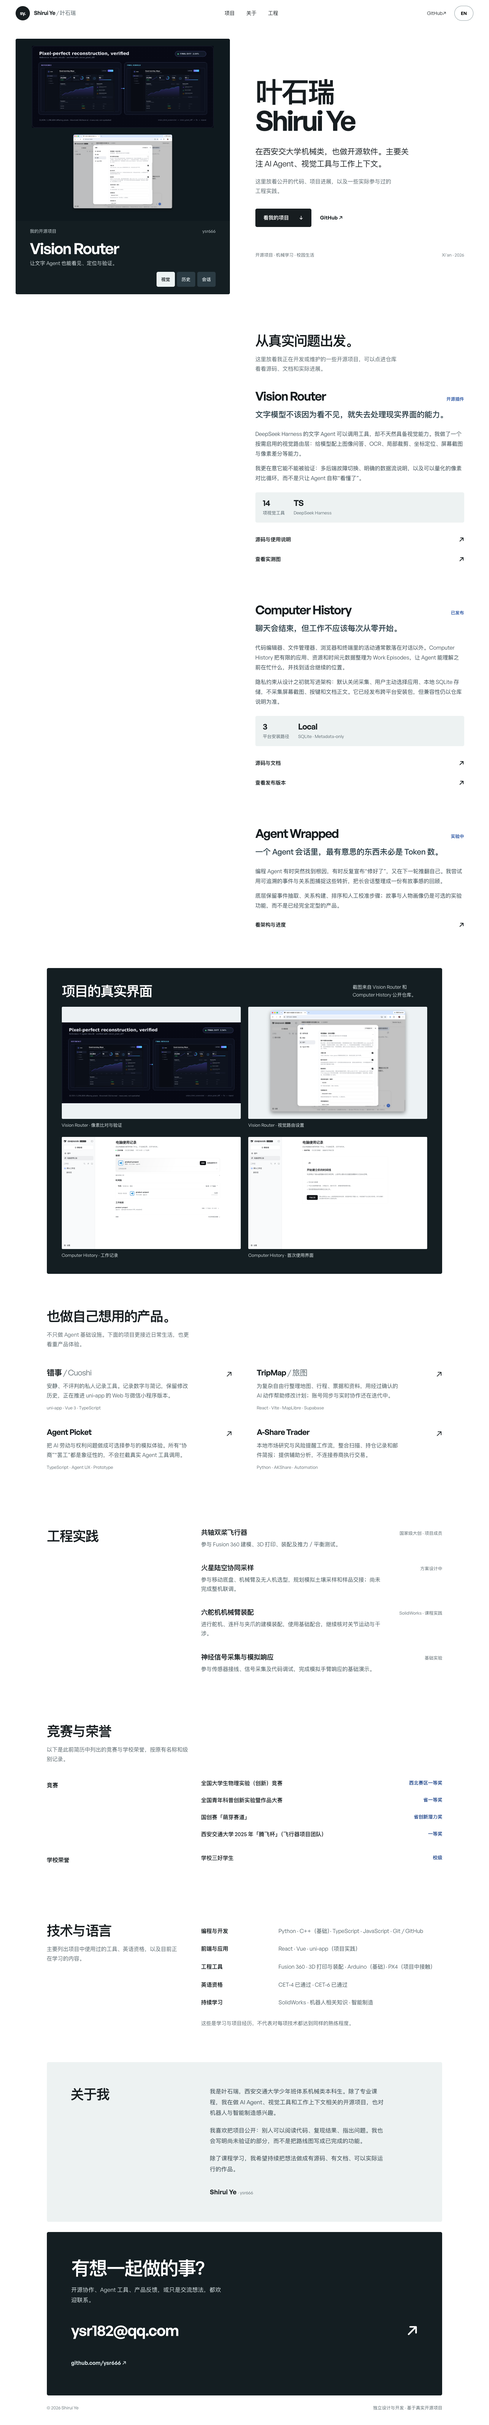
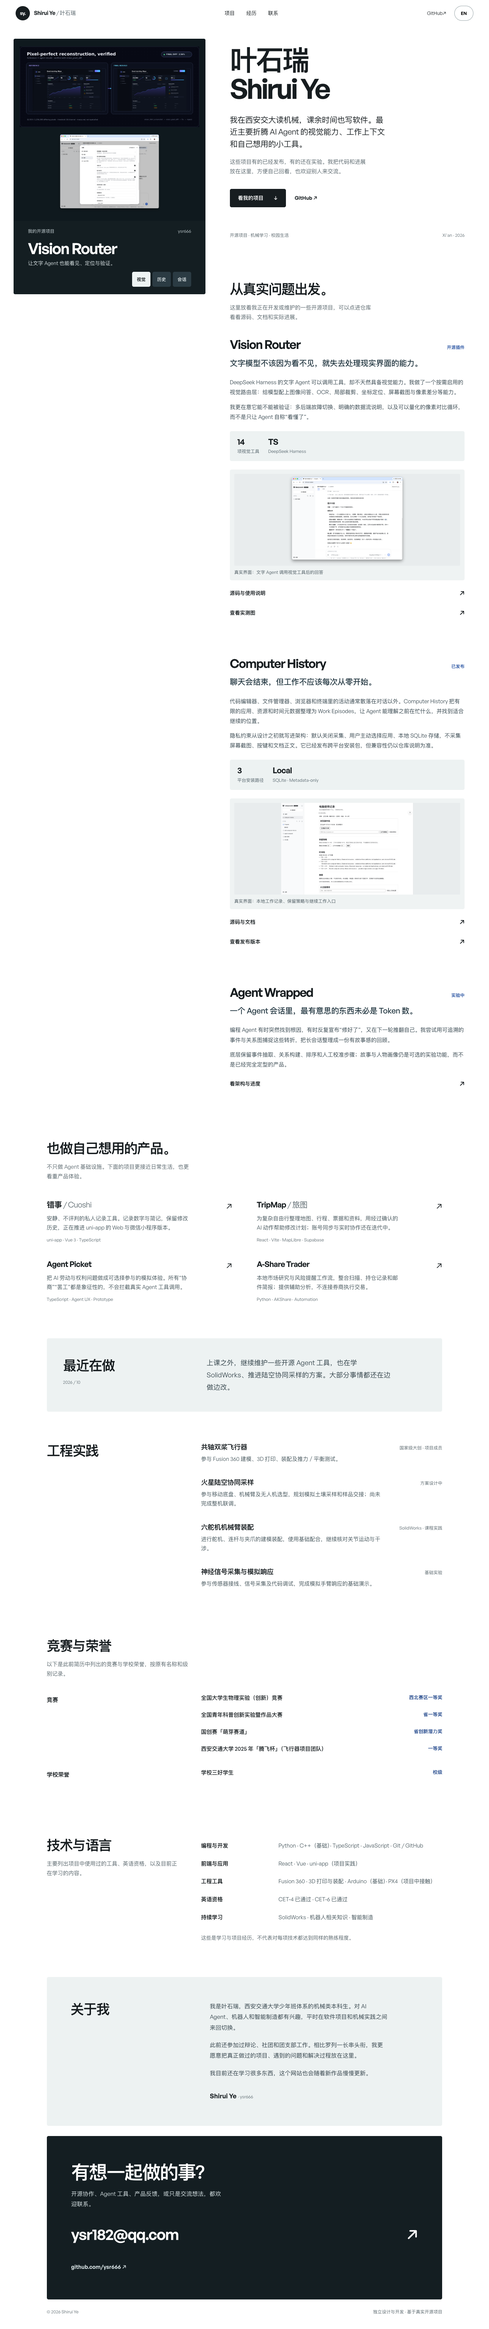
Refine portfolio against authentic developer website references

diff --git a/index.html b/index.html
@@ -14,7 +14,7 @@
 <link href="./favicon.svg" rel="icon" type="image/svg+xml"/>
 <link href="https://api.fontshare.com" rel="preconnect"/>
 <link href="https://api.fontshare.com/v2/css?f[]=general-sans@400,500,600&amp;display=swap" rel="stylesheet"/>
-<link href="./styles.css?v=visual-20261022" rel="stylesheet"/>
+<link href="./styles.css?v=20261022-refined" rel="stylesheet"/>
 <title>Shirui Ye / 叶石瑞 — Building useful software</title>
 </head>
 <body>
@@ -23,9 +23,9 @@
 <div class="topbar-inner">
 <a class="identity" href="#home"><span class="identity-symbol">sy.</span><span class="identity-name">Shirui Ye <span class="identity-cn">/ 叶石瑞</span></span></a>
 <nav aria-label="Main navigation" class="topnav">
-<a data-en="Work" data-zh="项目" href="#work">项目</a>
-<a data-en="About" data-zh="关于" href="#about">关于</a>
-<a data-en="Engineering" data-zh="工程" href="#journey">工程</a>
+<a data-en="Projects" data-zh="项目" href="#work">项目</a>
+<a data-en="Background" data-zh="经历" href="#journey">经历</a>
+<a data-en="Contact" data-zh="联系" href="#contact">联系</a>
 </nav>
 <div class="header-end"><a aria-label="GitHub profile" class="github-top" href="https://github.com/ysr666" rel="noopener noreferrer" target="_blank">GitHub <span aria-hidden="true">↗</span></a><button class="language" id="lang-toggle" title="Switch to English" type="button">EN</button></div>
 </div>
@@ -34,8 +34,8 @@
 <div class="split-layout" id="home">
 <section aria-labelledby="hero-title" class="intro">
 <h1 data-en="Shirui Ye&lt;br&gt;叶石瑞" data-zh="叶石瑞&lt;br&gt;Shirui Ye" id="hero-title">叶石瑞<br/>Shirui Ye</h1>
-<p class="intro-lead" data-en="A mechanical engineering undergraduate at Xi’an Jiaotong University, building open-source tools for AI agents, vision and work context." data-zh="在西安交大学机械类，也做开源软件。主要关注 AI Agent、视觉工具与工作上下文。">在西安交大学机械类，也做开源软件。主要关注 AI Agent、视觉工具与工作上下文。</p>
-<p class="intro-note" data-en="Here you can find my public code, project notes and hands-on engineering experience." data-zh="这里放着公开的代码、项目进展，以及一些实际参与过的工程实践。">这里放着公开的代码、项目进展，以及一些实际参与过的工程实践。</p>
+<p class="intro-lead" data-en="I study mechanical engineering at Xi'an Jiaotong University and build software in my spare time. Lately, I've been working on agent vision, work context, and small tools I'd want to use." data-zh="我在西安交大读机械，课余时间也写软件。最近主要折腾 AI Agent 的视觉能力、工作上下文和自己想用的小工具。">我在西安交大读机械，课余时间也写软件。最近主要折腾 AI Agent 的视觉能力、工作上下文和自己想用的小工具。</p>
+<p class="intro-note" data-en="Some projects have been released; others are still experiments. I keep the code and progress here, both to look back on and to share with others." data-zh="这些项目有的已经发布，有的还在实验。我把代码和进展放在这里，方便自己回看，也欢迎别人来交流。">这些项目有的已经发布，有的还在实验。我把代码和进展放在这里，方便自己回看，也欢迎别人来交流。</p>
 <div class="intro-actions"><a class="action-main" href="#work"><span data-en="Explore my work" data-zh="看我的项目">看我的项目</span><span aria-hidden="true">↓</span></a><a class="action-text" href="https://github.com/ysr666" rel="noopener noreferrer" target="_blank">GitHub ↗</a></div>
 <div class="intro-foot"><span data-en="Open source · Engineering · Campus life" data-zh="开源项目 · 机械学习 · 校园生活">开源项目 · 机械学习 · 校园生活</span><span>Xi'an · 2026</span></div>
 </section><aside aria-label="Featured project preview" class="visual-stage">
@@ -53,7 +53,6 @@
 </div>
 </div>
 </div>
-
 </aside><section aria-labelledby="work-title" class="body-section work" id="work">
 <div class="section-intro"><h2 data-en="Built around real problems." data-zh="从真实问题出发。" id="work-title">从真实问题出发。</h2><p data-en="These are open-source projects I build or maintain. Their repositories show the code, docs and current progress." data-zh="这里放着我正在开发或维护的一些开源项目，可以点进仓库看看源码、文档和实际进展。">这里放着我正在开发或维护的一些开源项目，可以点进仓库看看源码、文档和实际进展。</p></div>
 <article class="case" data-stage="vision" id="vision">
@@ -63,7 +62,7 @@
 <p data-en="DeepSeek Harness agents can call tools, but text-only models still cannot see. Vision Router adds on-demand image Q&amp;A, OCR, crops, coordinate grounding, screenshots and pixel comparison." data-zh="DeepSeek Harness 的文字 Agent 可以调用工具，却不天然具备视觉能力。我做了一个按需启用的视觉路由层：给模型配上图像问答、OCR、局部裁剪、坐标定位、屏幕截图与像素差分等能力。">DeepSeek Harness 的文字 Agent 可以调用工具，却不天然具备视觉能力。我做了一个按需启用的视觉路由层：给模型配上图像问答、OCR、局部裁剪、坐标定位、屏幕截图与像素差分等能力。</p>
 <p data-en="The emphasis is verification: provider fallback, explicit data-flow boundaries and measurable pixel-diff loops instead of an agent merely claiming it understood an image." data-zh="我更在意它能不能被验证：多后端故障切换、明确的数据流说明，以及可以量化的像素对比循环，而不是只让 Agent 自称“看懂了”。">我更在意它能不能被验证：多后端故障切换、明确的数据流说明，以及可以量化的像素对比循环，而不是只让 Agent 自称“看懂了”。</p>
 <div class="case-facts"><div><b>14</b><span data-en="Vision tools" data-zh="项视觉工具">项视觉工具</span></div><div><b>TS</b><span>DeepSeek Harness</span></div></div>
-<div class="case-links"><a href="https://github.com/ysr666/dsh-vision-router" rel="noopener noreferrer" target="_blank"><span data-en="Source &amp; documentation" data-zh="源码与使用说明">源码与使用说明</span><span aria-hidden="true">↗</span></a><a href="https://github.com/ysr666/dsh-vision-router/blob/main/assets/pixel-loop.png" rel="noopener noreferrer" target="_blank"><span data-en="See pixel-diff evidence" data-zh="查看实测图">查看实测图</span><span aria-hidden="true">↗</span></a></div>
+<figure class="case-proof"><a aria-label="真实界面：文字 Agent 调用视觉工具后的回答（打开原始图）" href="https://github.com/ysr666/dsh-vision-router/blob/main/assets/dsh-conversation-image-qa-result.png" rel="noopener noreferrer" target="_blank"><img alt="Vision Router text-first agent image-answer output in a DeepSeek Harness screenshot" height="1073" loading="lazy" src="./assets/vision-qa-evidence.png" width="1400"/></a><figcaption data-en="Actual interface: agent answer after calling a vision tool" data-zh="真实界面：文字 Agent 调用视觉工具后的回答">真实界面：文字 Agent 调用视觉工具后的回答</figcaption></figure><div class="case-links"><a href="https://github.com/ysr666/dsh-vision-router" rel="noopener noreferrer" target="_blank"><span data-en="Source &amp; documentation" data-zh="源码与使用说明">源码与使用说明</span><span aria-hidden="true">↗</span></a><a href="https://github.com/ysr666/dsh-vision-router/blob/main/assets/pixel-loop.png" rel="noopener noreferrer" target="_blank"><span data-en="See pixel-diff evidence" data-zh="查看实测图">查看实测图</span><span aria-hidden="true">↗</span></a></div>
 </article>
 <article class="case" data-stage="history" id="history">
 <div class="case-heading"><h3>Computer History</h3><span class="case-state" data-en="Published" data-zh="已发布">已发布</span></div>
@@ -72,7 +71,7 @@
 <p data-en="Work is scattered across editors, files, browsers and terminals. Computer History converts bounded app, resource and timing metadata into Work Episodes and offers useful resume context." data-zh="代码编辑器、文件管理器、浏览器和终端里的活动通常散落在对话以外。Computer History 把有限的应用、资源和时间元数据整理为 Work Episodes，让 Agent 能理解之前在忙什么，并找到适合继续的位置。">代码编辑器、文件管理器、浏览器和终端里的活动通常散落在对话以外。Computer History 把有限的应用、资源和时间元数据整理为 Work Episodes，让 Agent 能理解之前在忙什么，并找到适合继续的位置。</p>
 <p data-en="Privacy is architectural: capture is off by default, apps are opt-in, history lives in local SQLite, and the design excludes screenshots, keystrokes and document bodies. Cross-platform packages have been published with documented compatibility limits." data-zh="隐私约束从设计之初就写进架构：默认关闭采集、用户主动选择应用、本地 SQLite 存储，不采集屏幕截图、按键和文档正文。它已经发布跨平台安装包，但兼容性仍以仓库说明为准。">隐私约束从设计之初就写进架构：默认关闭采集、用户主动选择应用、本地 SQLite 存储，不采集屏幕截图、按键和文档正文。它已经发布跨平台安装包，但兼容性仍以仓库说明为准。</p>
 <div class="case-facts"><div><b>3</b><span data-en="Desktop platforms" data-zh="平台安装路径">平台安装路径</span></div><div><b>Local</b><span>SQLite · Metadata-only</span></div></div>
-<div class="case-links"><a href="https://github.com/ysr666/dsh-computer-history" rel="noopener noreferrer" target="_blank"><span data-en="Source &amp; documentation" data-zh="源码与文档">源码与文档</span><span aria-hidden="true">↗</span></a><a href="https://github.com/ysr666/dsh-computer-history/releases" rel="noopener noreferrer" target="_blank"><span data-en="See releases" data-zh="查看发布版本">查看发布版本</span><span aria-hidden="true">↗</span></a></div>
+<figure class="case-proof"><a aria-label="真实界面：本地工作记录、保留策略与继续工作入口（打开原始图）" href="https://github.com/ysr666/dsh-computer-history/blob/main/docs/assets/panel-timeline-duration.png" rel="noopener noreferrer" target="_blank"><img alt="Computer History actual interface with retention settings and timeline" height="1113" loading="lazy" src="./assets/history-timeline-evidence.png" width="1600"/></a><figcaption data-en="Actual interface: local history, retention settings, resume workflow" data-zh="真实界面：本地工作记录、保留策略与继续工作入口">真实界面：本地工作记录、保留策略与继续工作入口</figcaption></figure><div class="case-links"><a href="https://github.com/ysr666/dsh-computer-history" rel="noopener noreferrer" target="_blank"><span data-en="Source &amp; documentation" data-zh="源码与文档">源码与文档</span><span aria-hidden="true">↗</span></a><a href="https://github.com/ysr666/dsh-computer-history/releases" rel="noopener noreferrer" target="_blank"><span data-en="See releases" data-zh="查看发布版本">查看发布版本</span><span aria-hidden="true">↗</span></a></div>
 </article>
 <article class="case" data-stage="wrapped" id="wrapped">
 <div class="case-heading"><h3>Agent Wrapped</h3><span class="case-state" data-en="Experimental" data-zh="实验中">实验中</span></div>
@@ -82,17 +81,15 @@
 <p data-en="The implementation includes event extraction, graph relationships, ranking and human review. Story and persona generation are explicitly experimental rather than presented as finished product features." data-zh="底层保留事件抽取、关系构建、排序和人工校准步骤；故事与人物画像仍是可选的实验功能，而不是已经完全定型的产品。">底层保留事件抽取、关系构建、排序和人工校准步骤；故事与人物画像仍是可选的实验功能，而不是已经完全定型的产品。</p>
 <div class="case-links"><a href="https://github.com/ysr666/agent-wrapped" rel="noopener noreferrer" target="_blank"><span data-en="Architecture &amp; progress" data-zh="看架构与进度">看架构与进度</span><span aria-hidden="true">↗</span></a></div>
 </article>
-</section></div><div class="after-work"><section aria-labelledby="evidence-heading" class="work-evidence" id="evidence"><div class="evidence-heading"><h2 data-en="Inside the projects" data-zh="项目的真实界面" id="evidence-heading">项目的真实界面</h2><p data-en="Interface screenshots from the public Vision Router and Computer History repositories." data-zh="截图来自 Vision Router 和 Computer History 公开仓库。">截图来自 Vision Router 和 Computer History 公开仓库。</p></div><div class="evidence-gallery">
-<figure><img alt="Vision Router pixel comparison test, actual repository screenshot" height="720" loading="lazy" src="./assets/vision-demo.png" width="1600"/><figcaption data-en="Vision Router · pixel comparison and verification" data-zh="Vision Router · 像素比对与验证">Vision Router · 像素比对与验证</figcaption></figure>
-<figure><img alt="Vision Router configuration interface from the project repository" height="1073" loading="lazy" src="./assets/vision-settings.png" width="1400"/><figcaption data-en="Vision Router · vision routing settings" data-zh="Vision Router · 视觉路由设置">Vision Router · 视觉路由设置</figcaption></figure>
-<figure><img alt="Computer History timeline screen captured from the real application" height="940" loading="lazy" src="./assets/history-timeline.png" width="1500"/><figcaption data-en="Computer History · activity timeline" data-zh="Computer History · 工作记录">Computer History · 工作记录</figcaption></figure>
-<figure><img alt="Computer History first-run interface showing consent and privacy settings" height="940" loading="lazy" src="./assets/history-first-run.png" width="1500"/><figcaption data-en="Computer History · first-run setup" data-zh="Computer History · 首次使用界面">Computer History · 首次使用界面</figcaption></figure>
-</div></section><section aria-labelledby="more-title" class="body-section side-projects" id="more">
+</section></div><div class="after-work"><section aria-labelledby="more-title" class="body-section side-projects" id="more">
 <div class="section-intro"><h2 data-en="Things I wanted to exist." data-zh="也做自己想用的产品。" id="more-title">也做自己想用的产品。</h2><p data-en="Beyond agent infrastructure: products shaped by everyday use and practical needs." data-zh="不只做 Agent 基础设施。下面的项目更接近日常生活，也更看重产品体验。">不只做 Agent 基础设施。下面的项目更接近日常生活，也更看重产品体验。</p></div>
 <div class="mini-project"><div><h3>错事 <span>/ Cuoshi</span></h3><p data-en="A quiet, nonjudgmental personal tracker with editable history and small notes, built for web and WeChat using uni-app." data-zh="安静、不评判的私人记录工具。记录数字与简记，保留修改历史，正在推进 uni-app 的 Web 与微信小程序版本。">安静、不评判的私人记录工具。记录数字与简记，保留修改历史，正在推进 uni-app 的 Web 与微信小程序版本。</p><div class="mini-meta">uni-app · Vue 3 · TypeScript</div></div><a href="https://github.com/ysr666/cuoshi" rel="noopener noreferrer" target="_blank"><span class="visually-hidden" data-en="View Cuoshi repository" data-zh="查看错事源代码">查看错事源代码</span><span aria-hidden="true">↗</span></a></div>
 <div class="mini-project"><div><h3>TripMap <span>/ 旅图</span></h3><p data-en="A travel workspace for routes, tickets, plans and documents, with reviewable AI actions. Cloud sync and collaboration continue to evolve." data-zh="为复杂自由行整理地图、行程、票据和资料，用经过确认的 AI 动作帮助修改计划；账号同步与实时协作还在迭代中。">为复杂自由行整理地图、行程、票据和资料，用经过确认的 AI 动作帮助修改计划；账号同步与实时协作还在迭代中。</p><div class="mini-meta">React · Vite · MapLibre · Supabase</div></div><a href="https://github.com/ysr666/travelmap-planner" rel="noopener noreferrer" target="_blank"><span class="visually-hidden" data-en="View TripMap repository" data-zh="查看 TripMap 源代码">查看 TripMap 源代码</span><span aria-hidden="true">↗</span></a></div>
 <div class="mini-project"><div><h3>Agent Picket</h3><p data-en="An opt-in simulation exploring AI work and symbolic labor rights. Bargaining and strikes never block real agent tools." data-zh="把 AI 劳动与权利问题做成可选择参与的模拟体验。所有“协商”“罢工”都是象征性的，不会拦截真实 Agent 工具调用。">把 AI 劳动与权利问题做成可选择参与的模拟体验。所有“协商”“罢工”都是象征性的，不会拦截真实 Agent 工具调用。</p><div class="mini-meta">TypeScript · Agent UX · Prototype</div></div><a href="https://github.com/ysr666/agent-picket" rel="noopener noreferrer" target="_blank"><span class="visually-hidden" data-en="View Agent Picket repository" data-zh="查看 Agent Picket 源代码">查看 Agent Picket 源代码</span><span aria-hidden="true">↗</span></a></div>
 <div class="mini-project"><div><h3>A-Share Trader</h3><p data-en="A local market research workflow for scanning, portfolio records and email alerts. Advisory only; it does not execute trades." data-zh="本地市场研究与风险提醒工作流，整合扫描、持仓记录和邮件简报；提供辅助分析，不连接券商执行交易。">本地市场研究与风险提醒工作流，整合扫描、持仓记录和邮件简报；提供辅助分析，不连接券商执行交易。</p><div class="mini-meta">Python · AKShare · Automation</div></div><a href="https://github.com/ysr666/a-share-trader" rel="noopener noreferrer" target="_blank"><span class="visually-hidden" data-en="View A-Share Trader repository" data-zh="查看 A-Share Trader 源代码">查看 A-Share Trader 源代码</span><span aria-hidden="true">↗</span></a></div>
+</section><section aria-labelledby="now-title" class="now-section" id="now">
+<div class="now-title"><h2 data-en="Now" data-zh="最近在做" id="now-title">最近在做</h2><span>2026 / 10</span></div>
+<p data-en="Outside coursework, I'm maintaining a few open-source agent tools, learning SolidWorks, and exploring an air–ground sampling concept. Most of it is still work in progress." data-zh="上课之外，继续维护一些开源 Agent 工具，也在学 SolidWorks、推进陆空协同采样的方案。大部分事情都还在边做边改。">上课之外，继续维护一些开源 Agent 工具，也在学 SolidWorks、推进陆空协同采样的方案。大部分事情都还在边做边改。</p>
 </section><section aria-labelledby="journey-title" class="body-section journey-section" id="journey">
 <h2 data-en="Engineering" data-zh="工程实践" id="journey-title">工程实践</h2>
 <div class="engineering-list">
@@ -133,9 +130,9 @@
 </div><div class="skill-lines"><div class="skill-line"><h3 data-en="Software development" data-zh="编程与开发">编程与开发</h3><p data-en="Python · C++ (basics) · TypeScript · JavaScript · Git / GitHub" data-zh="Python · C++（基础）· TypeScript · JavaScript · Git / GitHub">Python · C++（基础）· TypeScript · JavaScript · Git / GitHub</p></div><div class="skill-line"><h3 data-en="Web &amp; apps" data-zh="前端与应用">前端与应用</h3><p data-en="React · Vue · uni-app (project experience)" data-zh="React · Vue · uni-app（项目实践）">React · Vue · uni-app（项目实践）</p></div><div class="skill-line"><h3 data-en="Engineering tools" data-zh="工程工具">工程工具</h3><p data-en="Fusion 360 · 3D printing &amp; assembly · Arduino (basics) · PX4 (project exposure)" data-zh="Fusion 360 · 3D 打印与装配 · Arduino（基础）· PX4（项目中接触）">Fusion 360 · 3D 打印与装配 · Arduino（基础）· PX4（项目中接触）</p></div><div class="skill-line"><h3 data-en="English qualifications" data-zh="英语资格">英语资格</h3><p data-en="CET-4 passed · CET-6 passed" data-zh="CET-4 已通过 · CET-6 已通过">CET-4 已通过 · CET-6 已通过</p></div><div class="skill-line"><h3 data-en="Currently learning" data-zh="持续学习">持续学习</h3><p data-en="SolidWorks · Robotics fundamentals · Intelligent manufacturing" data-zh="SolidWorks · 机器人相关知识 · 智能制造">SolidWorks · 机器人相关知识 · 智能制造</p></div></div>
 <p class="skill-outro" data-en="These reflect coursework and project experience, not equal proficiency in every listed technology." data-zh="这些是学习与项目经历，不代表对每项技术都达到同样的熟练程度。">这些是学习与项目经历，不代表对每项技术都达到同样的熟练程度。</p></section><section aria-labelledby="about-title" class="body-section about-section" id="about">
 <h2 data-en="A little about me" data-zh="关于我" id="about-title">关于我</h2>
-<p data-en="I'm Shirui Ye, a mechanical engineering undergraduate in Xi'an Jiaotong University's Youth Gifted Program. Alongside coursework, I work on open-source tools for AI agents, vision and work context, and I'm interested in robotics and intelligent manufacturing." data-zh="我是叶石瑞，西安交通大学少年班体系机械类本科生。除了专业课程，我在做 AI Agent、视觉工具和工作上下文相关的开源项目，也对机器人与智能制造感兴趣。">我是叶石瑞，西安交通大学少年班体系机械类本科生。除了专业课程，我在做 AI Agent、视觉工具和工作上下文相关的开源项目，也对机器人与智能制造感兴趣。</p>
-<p data-en="I like working in the open. Source code lets people inspect, reproduce and challenge the result. I also try to distinguish what's verified from what's still on the roadmap." data-zh="我喜欢把项目公开：别人可以阅读代码、复现结果、指出问题。我也会写明尚未验证的部分，而不是把路线图写成已完成的功能。">我喜欢把项目公开：别人可以阅读代码、复现结果、指出问题。我也会写明尚未验证的部分，而不是把路线图写成已完成的功能。</p>
-<p data-en="Alongside my studies, I want to keep turning ideas into projects with inspectable code, useful documentation and working implementations." data-zh="除了课程学习，我希望持续把想法做成有源码、有文档、可以实际运行的作品。">除了课程学习，我希望持续把想法做成有源码、有文档、可以实际运行的作品。</p>
+<p data-en="I'm Shirui Ye, a mechanical engineering undergraduate in Xi'an Jiaotong University's Youth Gifted Program. I'm interested in AI agents, robotics, and manufacturing, and I split my time between software and hands-on engineering." data-zh="我是叶石瑞，西安交通大学少年班体系的机械类本科生。对 AI Agent、机器人和智能制造都有兴趣，平时在软件项目和机械实践之间来回切换。">我是叶石瑞，西安交通大学少年班体系的机械类本科生。对 AI Agent、机器人和智能制造都有兴趣，平时在软件项目和机械实践之间来回切换。</p>
+<p data-en="I also have a background in debating, clubs, and Youth League branch activities. Rather than list a long series of titles, I'd prefer to share the projects I've worked on and the problems I ran into." data-zh="此前还参加过辩论、社团和团支部工作。相比罗列一长串头衔，我更愿意把真正做过的项目、遇到的问题和解决过程放在这里。">此前还参加过辩论、社团和团支部工作。相比罗列一长串头衔，我更愿意把真正做过的项目、遇到的问题和解决过程放在这里。</p>
+<p data-en="I'm still learning a lot, and I'll keep updating this site as new work takes shape." data-zh="我目前还在学习很多东西，这个网站也会随着新作品慢慢更新。">我目前还在学习很多东西，这个网站也会随着新作品慢慢更新。</p>
 <p class="about-signature">Shirui Ye <span>· ysr666</span></p>
 </section><section aria-labelledby="contact-title" class="body-section contact-section" id="contact">
 <h2 data-en="Something worth building together?" data-zh="有想一起做的事？" id="contact-title">有想一起做的事？</h2>
@@ -144,6 +141,6 @@
 <p><a class="text-link" href="https://github.com/ysr666" rel="noopener noreferrer" target="_blank">github.com/ysr666 ↗</a></p>
 </section><footer class="footer"><span>© 2026 Shirui Ye</span><span data-en="Independently built · Grounded in real projects" data-zh="独立设计与开发 · 基于真实开源项目">独立设计与开发 · 基于真实开源项目</span></footer></div>
 </main>
-<script defer="" src="./app.js?v=visual-20261022"></script>
+<script defer="" src="./app.js?v=20261022-refined"></script>
 </body>
 </html>

diff --git a/styles.css b/styles.css
@@ -287,3 +287,28 @@ button,a{touch-action:manipulation;-webkit-tap-highlight-color:transparent}
  [data-reveal]{opacity:.72;transform:translateY(12px);transition:opacity .45s ease,transform .45s ease}
  [data-reveal].is-visible,[data-reveal]:focus-within{opacity:1;transform:none}
 }
+
+/* Personal-site editorial refinement after comparing real maker portfolios. */
+@media(min-width:851px){
+ .split-layout{grid-template-columns:minmax(0,42%) minmax(0,58%)}
+ .intro{min-height:clamp(585px,74svh,790px)}
+ .visual-stage{padding-left:clamp(24px,2.8vw,46px)}
+ .split-layout>.intro,.split-layout>.work{padding-left:clamp(40px,5vw,82px);padding-right:clamp(30px,5vw,78px)}
+}
+.now-section{display:grid;grid-template-columns:minmax(200px,33%) minmax(0,1fr);align-items:start;gap:clamp(30px,5vw,70px);margin:9px 0 18px;padding:clamp(34px,4vw,54px) clamp(29px,4vw,48px);background:var(--soft);border-radius:var(--radius);scroll-margin-top:calc(var(--top) + 15px)}
+.now-title h2{font-size:var(--heading);font-weight:600;letter-spacing:-.05em;line-height:1.25;margin:0 0 12px}
+.now-title span{font-size:var(--small);color:var(--muted)}
+.now-section p{font-size:clamp(17px,1.5vw,20px);line-height:1.8;max-width:47ch;color:#33434a;margin:0}
+@media(max-width:620px){
+ .now-section{display:block;margin:12px 0 16px;padding:29px 26px}
+ .now-title{margin-bottom:20px}
+ .now-title h2{margin-bottom:4px}
+ .now-section p{font-size:17px;line-height:1.78}
+}
+
+/* A verifiable detail belongs beside the relevant case study, not in a duplicate gallery. */
+.case-proof{margin:25px 0 10px;padding:13px;background:#eff3f3;border-radius:var(--radius)}
+.case-proof a{display:block;border-radius:2px}
+.case-proof img{width:100%;max-height:270px;height:auto;object-fit:contain;object-position:center;background:#e8eced;border-radius:2px}
+.case-proof figcaption{font-size:var(--small);line-height:1.6;color:#4c5a61;margin:9px 0 0}
+@media(max-width:530px){.case-proof{margin:22px 0 12px;padding:9px}.case-proof img{max-height:230px}}

diff --git a/DESIGN_SYSTEM.md b/DESIGN_SYSTEM.md
@@ -10,7 +10,7 @@ Reading hierarchy: personal identity → featured verifiable work → actual pro
 
 ## Visual concept
 
-Real software screens are the visual material, not generic AI illustrations. The large screenshot field stays beside the three featured case studies only, then releases; the remaining material becomes a full-width editorial archive. On mobile, the name and introduction precede the screenshot. Agent Wrapped uses typographic artwork identified as artwork, not a false application screenshot.
+Real software screens are the visual material, not generic AI illustrations. A project screenshot field stays beside three featured case studies only, then releases to a full-width editorial archive. A separate duplicate gallery was removed. On mobile, the name and introduction precede the screenshot. Agent Wrapped uses typographic artwork identified as artwork, not a false application screenshot.
 
 ## Design tokens
 
@@ -28,7 +28,7 @@ Real software screens are the visual material, not generic AI illustrations. The
 | Space | 4, 8, 12, 16, 24, 32, 48, 64px rhythm |
 | Radius | 5px for image fields and CTA, functional pill for language |
 | Motion | 230ms screenshot crossfade and small 450ms one-time section reveals |
-| Grid | 47/53 desktop split, stacked at 850px, two-row phone nav <=530px |
+| Grid | 42/58 desktop split, stacked at 850px, two-row phone nav <=530px |
 
 The measured font sizes between roles result from fluid scaling, Latin/CJK metrics and localized components; the design uses five main semantic tiers.
 
@@ -36,10 +36,24 @@ The measured font sizes between roles result from fluid scaling, Latin/CJK metri
 
 Semantic main, nav and sections; one H1 for the person's real name, skip link, descriptive images and project links. Explicit focus rings. All visible mobile controls are at least 44×44 CSS px. No browser zoom restrictions. Full keyboard use, named project preview buttons, correct pressed state, language switching in place and persistence where storage is available. Browser fragment jumps are immediate rather than animated through long pages. Motion respects the reduced-motion preference and never blocks reading.
 
-The screenshot gallery uses four raster images from actual public Vision Router and Computer History repositories. Experimental or pending work is labeled, forked repositories never claimed as original, and private projects/contact details remain excluded.
+Featured screenshots come from public Vision Router and Computer History repositories. A separate duplicate gallery was intentionally removed. Experimental or pending work is labeled, forked repositories never claimed as original, and private projects/contact details remain excluded.
 
 ## Deliberate Taste Skill exceptions
 
 No video: there is no verified footage in the evidence selected for this page; inventing a demo would undermine credibility. The language switch retains a functional 1px border for affordance. Computed responsive type yields more pixel sizes than the five semantic roles. No gradients, at-rest shadows, decorative card grids or invented statistics.
 
 See QA_REPORT.md for tested coverage and remaining limits.
+
+
+## Reference review (2026-10-22)
+
+We compared real public portfolios rather than choosing aesthetics from one inspiration image: Anthony Fu (personal voice and open-source projects), Paco Coursey (compact editorial structure and Now), Brittany Chiang (recruiting evidence and contact), Emil Kowalski (projects as proof), and Rauno Freiberg (careful typographic craft).
+
+The adaptation keeps the existing source-backed work but uses more human copy, Projects / Background / Contact navigation, removes duplicate screenshots, and adds a truthful Now note about work still in progress. This alters information hierarchy, not the user's achievements.
+
+Reference URLs and decisions are in DESIGN_REFERENCES.md.
+
+
+## Final visual evidence decision
+
+Rather than keep the former large four-photo gallery, two distinct, source-backed screenshots now sit inside the Vision Router and Computer History case studies. They illustrate a real vision-tool response and the local history/retention UI. Both screenshots link directly to their original public GitHub repository files; all assets are local to this static site. The project stage and mobile previews remain the primary visual experience.

diff --git a/QA_REPORT.md b/QA_REPORT.md
@@ -40,3 +40,20 @@ Taste Skill moved from an initial **7 FAIL / 5 WARN** to **0 FAIL / 2 WARN** aft
 ## Limits
 
 Axe with no detected violations is NOT full WCAG 2.2 AA certification. Native VoiceOver/NVDA, Safari/iOS behavior, forced colors, and all zoom combinations require separate manual testing. Taste Skill passing also does not certify subjective visual taste. A human should review the site and each résumé claim before using it as a formal application.
+
+
+## Personal-site comparison refinement (2026-10-22)
+
+- Compared original sites of Anthony Fu, Paco Coursey, Brittany Chiang, Emil Kowalski and Rauno Freiberg. Adapted information curation and personal voice without copying page code or branding.
+- Removed the duplicate four-image gallery; original repository/source links were kept.
+- Added a short, evidence-conscious Now note; edited About and intro and changed navigation to Projects / Background / Contact.
+- Desktop split is now 42/58 and the intro is shorter to surface project content sooner.
+- Browser check at 320, 375, 390, 768, 1024, 1440 and 1920 CSS px in both languages: no document horizontal overflow, broken image, invalid internal fragment or JS page error; 375, 768 and 1440 screenshots reviewed.
+- Repeated Axe at 375, 768 and 1440: zero confirmed WCAG violations, not a certification. Taste Skill source lint: zero FAIL, two existing WARN.
+
+
+## Source-backed evidence check (2026-10-22)
+
+Taste Skill flagged too few meaningful pictures after the redundant full gallery was removed. We selected two different, actual repository screenshots instead of restoring duplicates: a Vision Router tool-response example and Computer History timeline/retention controls. The images were inspected, downloaded directly from the author's public repositories, and attached to their relevant case studies with descriptive alt text, bilingual captions and external links to the original images.
+
+Final Taste Skill inspector: **0 FAIL / 2 WARN** (font-size count and no video). The images are actual evidence, not styled mockups. The source lint remains **0 FAIL / 2 WARN**. No video is added without authentic footage.

diff --git a/README.md b/README.md
@@ -12,7 +12,7 @@ Plain HTML, CSS and JavaScript. No dependencies or build process. Run a local we
 
 Featured source-backed work: DSH Vision Router, Computer History and Agent Wrapped. Four other non-fork public repositories are listed briefly. Engineering practice is compact and distinguishes participation from planned integration. The qualifications section includes CET-4 and CET-6 passed. No invented achievements, fake interfaces, unrelated fork attribution, private phone number or confidential projects.
 
-The four screenshot images in assets originate in public project repositories. Agent Wrapped artwork is typographic, not presented as a real app screen.
+Screenshots in assets originate in public project repositories, including two annotated case-study images with links back to their original files. Agent Wrapped artwork is typographic, not presented as a real app screen.
 
 ## Documentation
 
@@ -20,5 +20,6 @@ The four screenshot images in assets originate in public project repositories. A
 - QA_REPORT.md: inspect/lint, Axe automated checks, browser sizes, screenshots and limits.
 - PROFILE_CONTENT.md: content provenance / accuracy boundaries.
 - qa/screenshots/: verified preview captures.
+- DESIGN_REFERENCES.md: real personal sites studied and what was adapted.
 
 Style direction: Taste Skill v2 Split Stage adapted to actual developer work. Mobile leads with the owner's name; the full-width archive follows the featured work.

diff --git a/DESIGN_REFERENCES.md b/DESIGN_REFERENCES.md
@@ -1,0 +1,13 @@
+# Reference review — real personal websites
+
+Reviewed on 2026-10-22. These are observations about public sites, not copied designs.
+
+| Website | What worked | Decision for this page |
+|---|---|---|
+| https://antfu.me/ | Personal open-source identity, source links, real interests | Keep verifiable projects central but use an individual voice |
+| https://paco.me/ | Few words, clear Projects and Now paths | Add a concise current-work note without creating another card wall |
+| https://brittanychiang.com/ | Role, evidence, résumé and contact easily found | Make navigation lead to Projects / Background / Contact |
+| https://emilkowal.ski/ | Actual tools and writing demonstrate craft | Do not invent a blog, studies, metrics or testimonials |
+| https://rauno.me/ | Consistent typography and careful interactions | Learn craft without copying the elaborate OS metaphor or excessive motion |
+
+Conclusion: identity, credibility, and useful next actions distinguish mature personal sites. This version reduces duplicated image content, makes ongoing work visible, and preserves explicit technical evidence.
